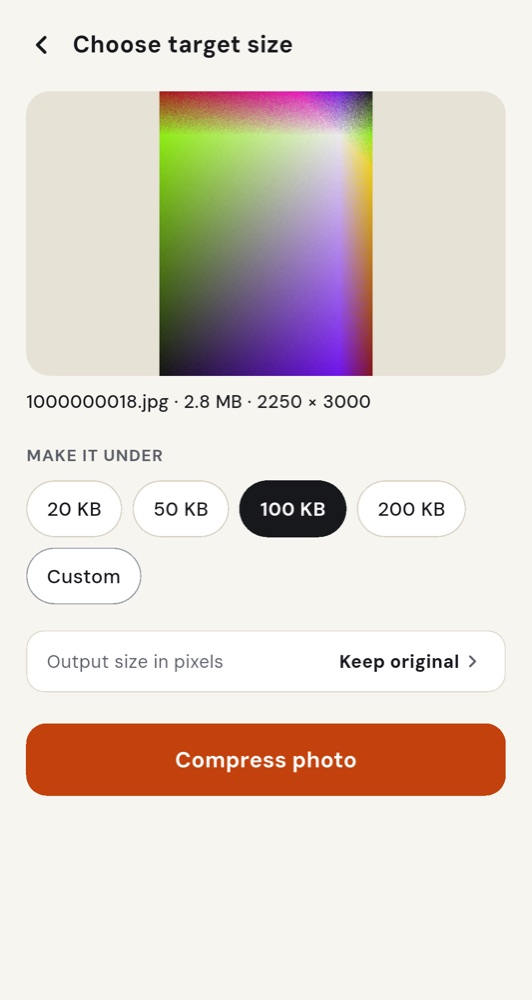
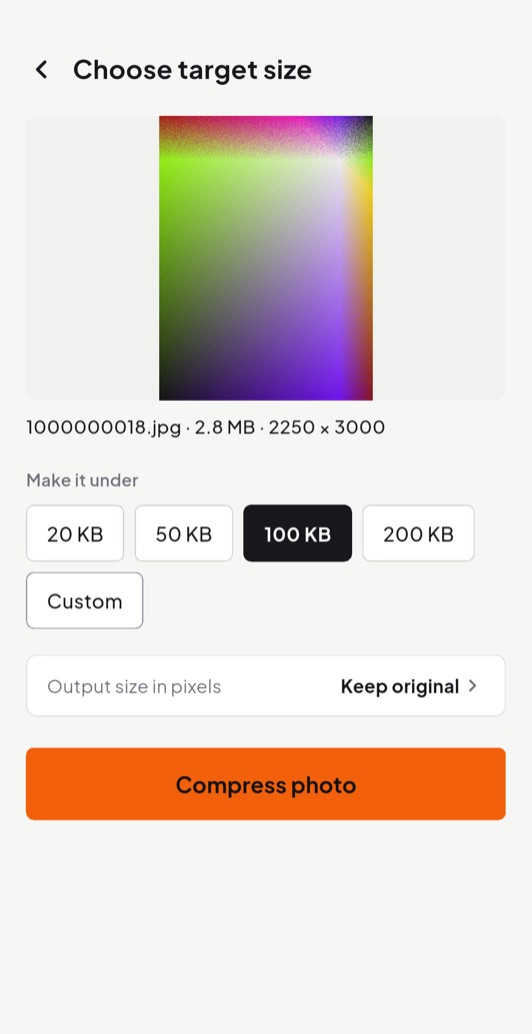
Tidyup page: new app screenshots; remove outdated image

diff --git a/tidyup/index.html b/tidyup/index.html
@@ -20,7 +20,7 @@
   <p class="lede">Shrink a photo to 20, 50, 100 or 200 KB, or any size you type. Merge, split and scan PDFs. Works offline, and nothing is uploaded.</p>
   <div class="btn-row"><a class="btn" href="../beta/">Join the beta &rarr;</a><span class="mono-note">Coming soon to Google Play</span></div>
   </div>
-  <figure class="herophone"><img src="img/result.jpg" width="532" height="1000" alt="Tidyup result screen: a 2.8 MB photo reduced to 94 KB" decoding="async"><figcaption>2.8 MB to 94 KB</figcaption></figure>
+  <figure class="herophone"><img src="img/result.jpg" width="532" height="1034" alt="Tidyup result screen: a 2.8 MB photo reduced to 94 KB" decoding="async"><figcaption>2.8 MB to 94 KB</figcaption></figure>
 </div></section>
 
 <section style="padding-top:0"><div class="wrap">
@@ -35,9 +35,9 @@
   <p class="label">The app</p>
   <h2>Three screens, no maze</h2>
   <div class="shots" tabindex="0" role="group" aria-label="App screenshots">
-    <figure><img src="img/home.jpg" width="532" height="1000" alt="Tidyup home screen listing all seven tools" loading="lazy" decoding="async"><figcaption>Pick a tool</figcaption></figure>
-    <figure><img src="img/compress.jpg" width="532" height="1000" alt="Choosing a target size of 100 KB" loading="lazy" decoding="async"><figcaption>Pick a size</figcaption></figure>
-    <figure><img src="img/result.jpg" width="532" height="1000" alt="Result: 2.8 MB reduced to 94 KB" loading="lazy" decoding="async"><figcaption>Save or share</figcaption></figure>
+    <figure><img src="img/home.jpg" width="532" height="1034" alt="Tidyup home screen listing all seven tools" loading="lazy" decoding="async"><figcaption>Pick a tool</figcaption></figure>
+    <figure><img src="img/compress.jpg" width="532" height="1034" alt="Choosing a target size of 100 KB" loading="lazy" decoding="async"><figcaption>Pick a size</figcaption></figure>
+    <figure><img src="img/result.jpg" width="532" height="1034" alt="Result: 2.8 MB reduced to 94 KB" loading="lazy" decoding="async"><figcaption>Save or share</figcaption></figure>
   </div>
 </div></section>
 
